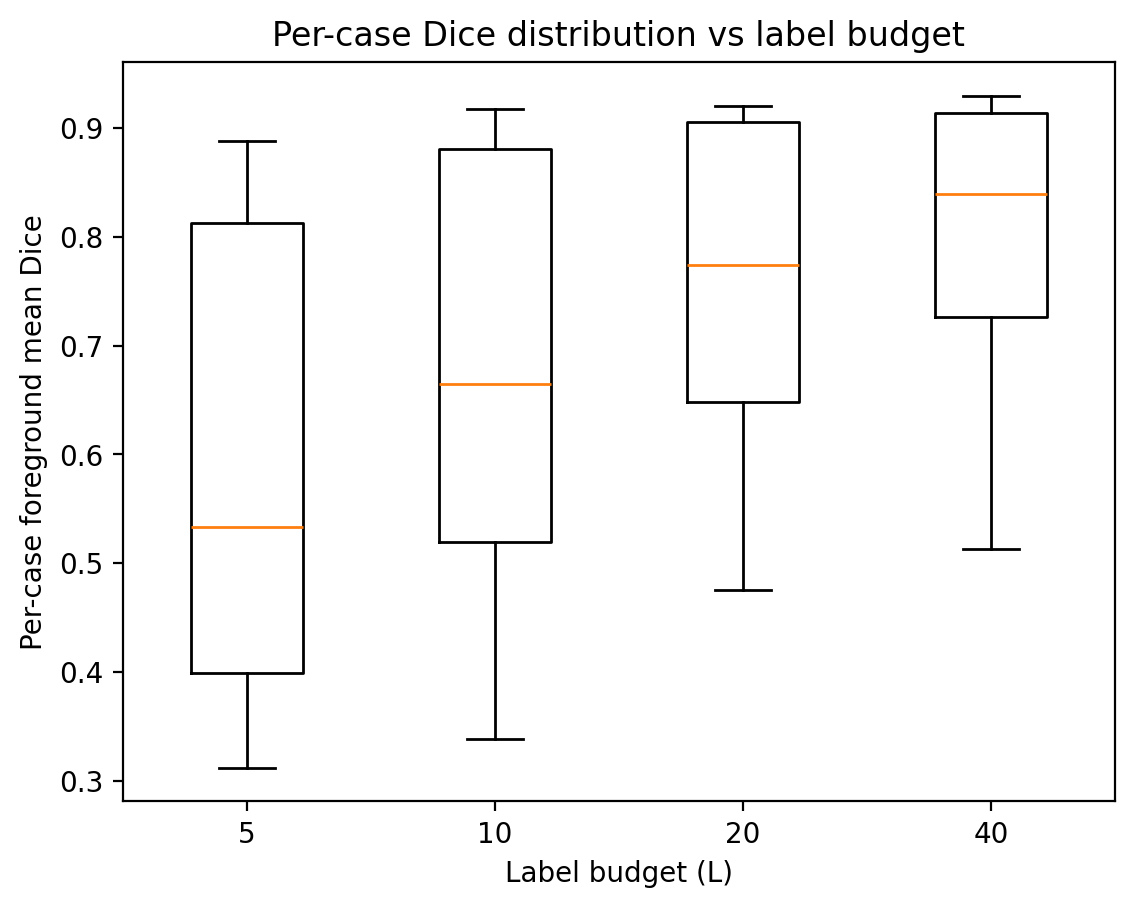
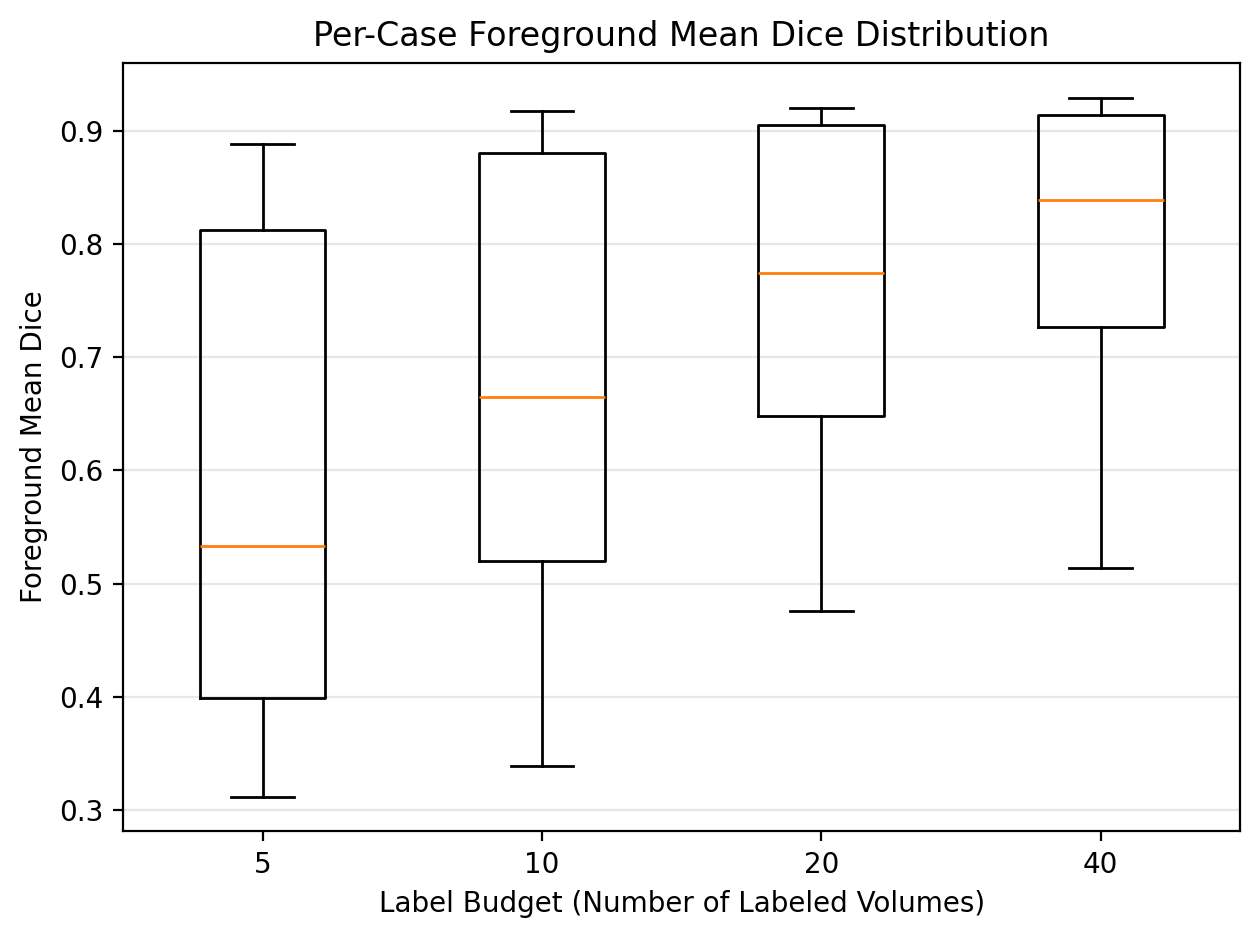
Add reproducible metric recompute + prettified plots (HD95/Dice) with anatomy labels

diff --git a/scripts/recompute_metrics_from_preds.py b/scripts/recompute_metrics_from_preds.py
@@ -1,0 +1,156 @@
+#!/usr/bin/env python3
+import json, csv
+from pathlib import Path
+import numpy as np
+import SimpleITK as sitk
+from scipy.ndimage import binary_erosion, distance_transform_edt
+
+K = 8  # foreground classes 1..8
+
+def dice(a: np.ndarray, b: np.ndarray) -> float:
+    a = a.astype(bool); b = b.astype(bool)
+    inter = np.logical_and(a, b).sum()
+    denom = a.sum() + b.sum()
+    if denom == 0:
+        return 1.0
+    return 2.0 * inter / denom
+
+def surface(mask: np.ndarray) -> np.ndarray:
+    # 1-voxel thick surface
+    if mask.sum() == 0:
+        return mask
+    er = binary_erosion(mask, iterations=1, border_value=0)
+    return np.logical_and(mask, np.logical_not(er))
+
+def hd95_mm(gt: np.ndarray, pr: np.ndarray, spacing_xyz_mm) -> float:
+    # Returns NaN if one empty and the other non-empty
+    gt = gt.astype(bool); pr = pr.astype(bool)
+    if gt.sum() == 0 and pr.sum() == 0:
+        return 0.0
+    if gt.sum() == 0 or pr.sum() == 0:
+        return float("nan")
+
+    s_gt = surface(gt)
+    s_pr = surface(pr)
+
+    # SciPy expects spacing in array axis order (z,y,x). SITK spacing is (x,y,z).
+    sp_zyx = (spacing_xyz_mm[2], spacing_xyz_mm[1], spacing_xyz_mm[0])
+
+    # distance from every voxel to nearest surface voxel
+    dt_gt = distance_transform_edt(~s_gt, sampling=sp_zyx)
+    dt_pr = distance_transform_edt(~s_pr, sampling=sp_zyx)
+
+    d1 = dt_gt[s_pr]
+    d2 = dt_pr[s_gt]
+    if d1.size == 0 or d2.size == 0:
+        return float("nan")
+    all_d = np.concatenate([d1, d2])
+    return float(np.percentile(all_d, 95))
+
+def find_dataset_dir(did: int) -> Path:
+    raw_root = Path("data/nnunet/nnUNet_raw")
+    matches = sorted(raw_root.glob(f"Dataset{did}_*"))
+    if not matches:
+        raise FileNotFoundError(f"Could not find Dataset{did}_* under {raw_root}")
+    return matches[0]
+
+def main():
+    out_metrics = Path("outputs/metrics")
+    out_metrics.mkdir(parents=True, exist_ok=True)
+
+    pairs = [(5,985),(10,986),(20,987),(40,988)]
+
+    for L, did in pairs:
+        ds = find_dataset_dir(did)
+        gt_dir = ds / "labelsTs"
+        pred_dir = Path(f"outputs/test_preds/D{did}_3d_fullres")
+        if not gt_dir.exists():
+            raise FileNotFoundError(f"Missing {gt_dir}")
+        if not pred_dir.exists():
+            raise FileNotFoundError(f"Missing {pred_dir}")
+
+        gts = {p.name: p for p in gt_dir.glob("*.nii.gz")}
+        prs = {p.name: p for p in pred_dir.glob("*.nii.gz")}
+        common = sorted(set(gts.keys()) & set(prs.keys()))
+        if not common:
+            raise RuntimeError(f"No matching filenames between {gt_dir} and {pred_dir}")
+
+        rows = []
+        all_bg = 0
+
+        for name in common:
+            gt_img = sitk.ReadImage(str(gts[name]))
+            pr_img = sitk.ReadImage(str(prs[name]))
+
+            gt = sitk.GetArrayFromImage(gt_img).astype(np.int16)  # z,y,x
+            pr = sitk.GetArrayFromImage(pr_img).astype(np.int16)
+
+            if int((pr > 0).sum()) == 0:
+                all_bg += 1
+
+            spacing_xyz = gt_img.GetSpacing()  # (x,y,z) mm
+
+            dice_k = {}
+            hd95_k = {}
+            for k in range(1, K+1):
+                mgt = (gt == k)
+                mpr = (pr == k)
+                dice_k[k] = float(dice(mgt, mpr))
+                hd95_k[k] = float(hd95_mm(mgt, mpr, spacing_xyz))
+
+            # macro across 1..8 (ignore NaNs for HD95)
+            dice_vals = [dice_k[k] for k in range(1, K+1)]
+            hd_vals = [hd95_k[k] for k in range(1, K+1) if not np.isnan(hd95_k[k])]
+
+            fg_mean_dice = float(np.mean(dice_vals))
+            fg_mean_hd95 = float(np.mean(hd_vals)) if len(hd_vals) else float("nan")
+
+            row = {
+                "case": name.replace(".nii.gz",""),
+                "fg_mean_dice": fg_mean_dice,
+                "fg_mean_hd95_mm": fg_mean_hd95,
+            }
+            for k in range(1, K+1):
+                row[f"dice_{k}"] = dice_k[k]
+                row[f"hd95_{k}_mm"] = hd95_k[k]
+            rows.append(row)
+
+        # write per-case CSV
+        per_case_csv = out_metrics / f"D{did}_per_case.csv"
+        fields = ["case","fg_mean_dice","fg_mean_hd95_mm"] + \
+                 [f"dice_{k}" for k in range(1,K+1)] + \
+                 [f"hd95_{k}_mm" for k in range(1,K+1)]
+        with per_case_csv.open("w", newline="") as f:
+            w = csv.DictWriter(f, fieldnames=fields)
+            w.writeheader()
+            for r in rows:
+                w.writerow(r)
+
+        # summary stats (mean/std across cases)
+        def col(name):
+            vals = [r[name] for r in rows]
+            arr = np.array(vals, dtype=float)
+            return arr
+
+        summary = {"mean": {}, "std": {}, "n_test": len(rows), "all_background_preds": int(all_bg)}
+
+        # fg macro
+        for key in ["fg_mean_dice", "fg_mean_hd95_mm"]:
+            arr = col(key)
+            summary["mean"][key] = float(np.nanmean(arr))
+            summary["std"][key] = float(np.nanstd(arr, ddof=1))
+
+        # per-class
+        for k in range(1, K+1):
+            dk = col(f"dice_{k}")
+            hk = col(f"hd95_{k}_mm")
+            summary["mean"][f"dice_{k}"] = float(np.nanmean(dk))
+            summary["std"][f"dice_{k}"] = float(np.nanstd(dk, ddof=1))
+            summary["mean"][f"hd95_{k}_mm"] = float(np.nanmean(hk))
+            summary["std"][f"hd95_{k}_mm"] = float(np.nanstd(hk, ddof=1))
+
+        (out_metrics / f"D{did}_summary.json").write_text(json.dumps(summary, indent=2) + "\n")
+        print(f"[OK] D{did} (L={L}): wrote {per_case_csv} and D{did}_summary.json (n_test={len(rows)}, all_bg={all_bg})")
+
+if __name__ == "__main__":
+    main()

diff --git a/scripts/plot_budget_curves_pretty_from_metrics.py b/scripts/plot_budget_curves_pretty_from_metrics.py
@@ -1,0 +1,90 @@
+#!/usr/bin/env python3
+import json, csv
+from pathlib import Path
+import matplotlib.pyplot as plt
+
+BUDGETS = [(5,985),(10,986),(20,987),(40,988)]
+K = 8
+
+
+STRUCT_NAMES = {1:"LV",2:"RV",3:"LA",4:"RA",5:"Aorta",6:"PA",7:"SVC",8:"IVC"}
+def load_summary(did: int):
+    return json.loads((Path("outputs/metrics")/f"D{did}_summary.json").read_text())
+
+def load_per_case_fg_dice(did: int):
+    p = Path("outputs/metrics")/f"D{did}_per_case.csv"
+    vals = []
+    with p.open("r", newline="") as f:
+        r = csv.DictReader(f)
+        for row in r:
+            vals.append(float(row["fg_mean_dice"]))
+    return vals
+
+def save(path: Path):
+    path.parent.mkdir(parents=True, exist_ok=True)
+    plt.tight_layout()
+    plt.savefig(path, dpi=200, bbox_inches="tight")
+    plt.close()
+
+def main():
+    out_plots = Path("outputs/plots")
+    out_fr = Path("outputs/final_report")
+    out_plots.mkdir(parents=True, exist_ok=True)
+    out_fr.mkdir(parents=True, exist_ok=True)
+
+    budgets = [b for b,_ in BUDGETS]
+    sums = {did: load_summary(did) for _,did in BUDGETS}
+
+    # --- HD95 vs Budget (macro FG) ---
+    hd_mean = []
+    hd_sd = []
+    for b,did in BUDGETS:
+        hd_mean.append(sums[did]["mean"]["fg_mean_hd95_mm"])
+        hd_sd.append(sums[did]["std"]["fg_mean_hd95_mm"])
+
+    plt.figure()
+    plt.errorbar(budgets, hd_mean, yerr=hd_sd, marker="o", capsize=4)
+    plt.title("Foreground Mean HD95 vs Label Budget")
+    plt.xlabel("Label Budget (Number of Labeled Volumes)")
+    plt.ylabel("Foreground Mean HD95 (mm, Macro-Averaged Across Structures)")
+    plt.xticks(budgets, [str(b) for b in budgets])
+    plt.grid(True, alpha=0.3)
+    save(out_plots/"hd95_vs_budget.png")
+
+    # --- Per-Structure HD95 vs Budget ---
+    plt.figure()
+    for k in range(1, K+1):
+        ys = [sums[did]["mean"][f"hd95_{k}_mm"] for _,did in BUDGETS]
+        plt.plot(budgets, ys, marker="o", label=f"{STRUCT_NAMES.get(k, f'Structure {k}')}")
+    plt.title("Per-Structure HD95 vs Label Budget")
+    plt.xlabel("Label Budget (Number of Labeled Volumes)")
+    plt.ylabel("Mean HD95 (mm)")
+    plt.xticks(budgets, [str(b) for b in budgets])
+    plt.grid(True, alpha=0.3)
+    plt.legend(loc="best", fontsize=8)
+    save(out_plots/"per_class_hd95_vs_budget.png")
+
+    # --- Boxplot: per-case FG mean Dice ---
+    data = []
+    labels = []
+    for b,did in BUDGETS:
+        data.append(load_per_case_fg_dice(did))
+        labels.append(str(b))
+
+    plt.figure()
+    plt.boxplot(data, tick_labels=labels, showfliers=True)
+    plt.title("Per-Case Foreground Mean Dice Distribution")
+    plt.xlabel("Label Budget (Number of Labeled Volumes)")
+    plt.ylabel("Foreground Mean Dice")
+    plt.grid(True, axis="y", alpha=0.3)
+    save(out_plots/"boxplot_fg_dice.png")
+
+    # Copy refreshed plots into final_report (overwrite)
+    for name in ["per_class_hd95_vs_budget.png", "boxplot_fg_dice.png"]:
+        src = out_plots/name
+        (out_fr/name).write_bytes(src.read_bytes())
+
+    print("[OK] Wrote prettified HD95 + boxplot plots to outputs/plots and outputs/final_report")
+
+if __name__ == "__main__":
+    main()
